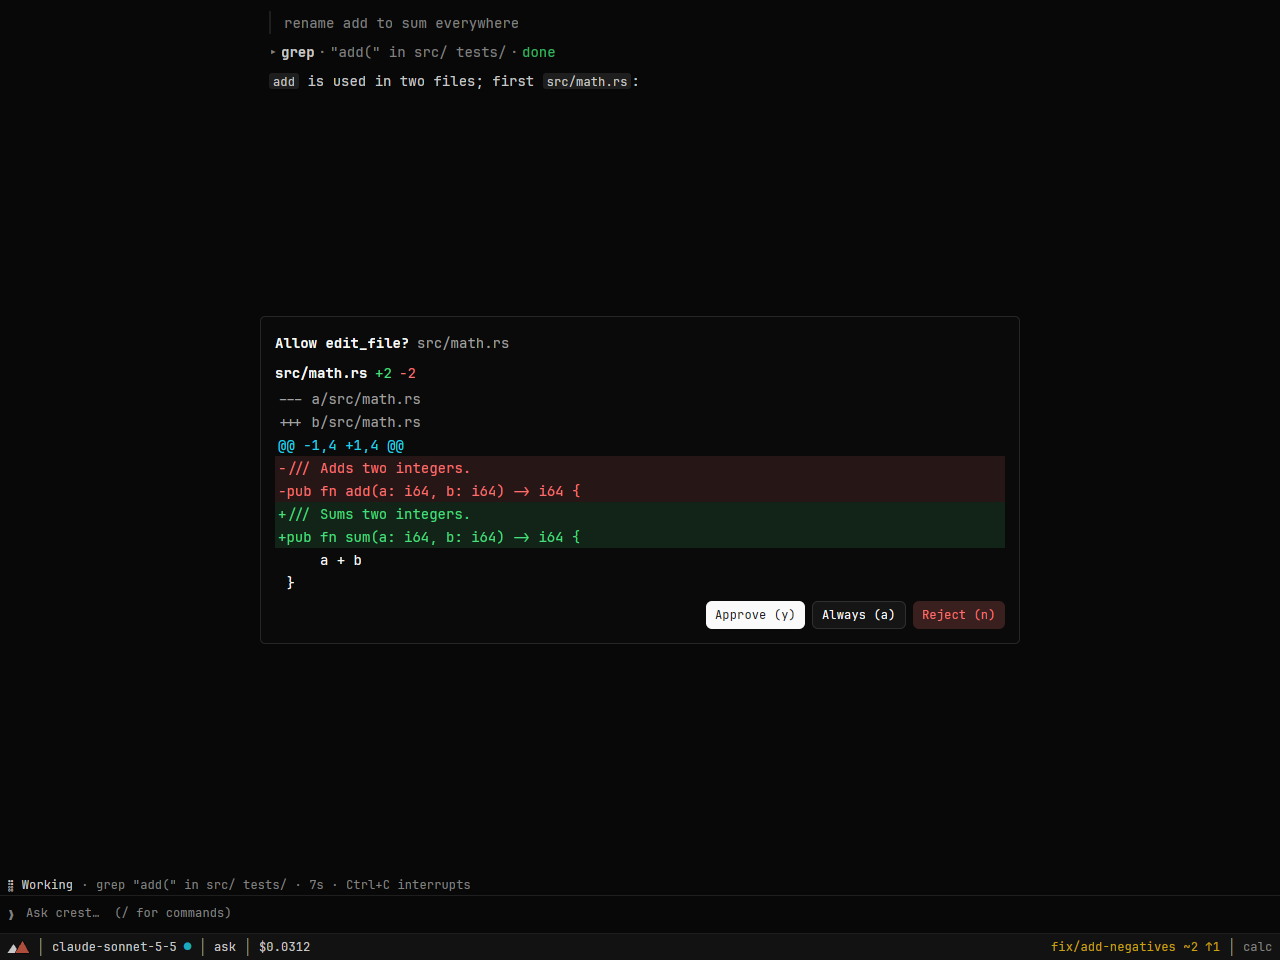
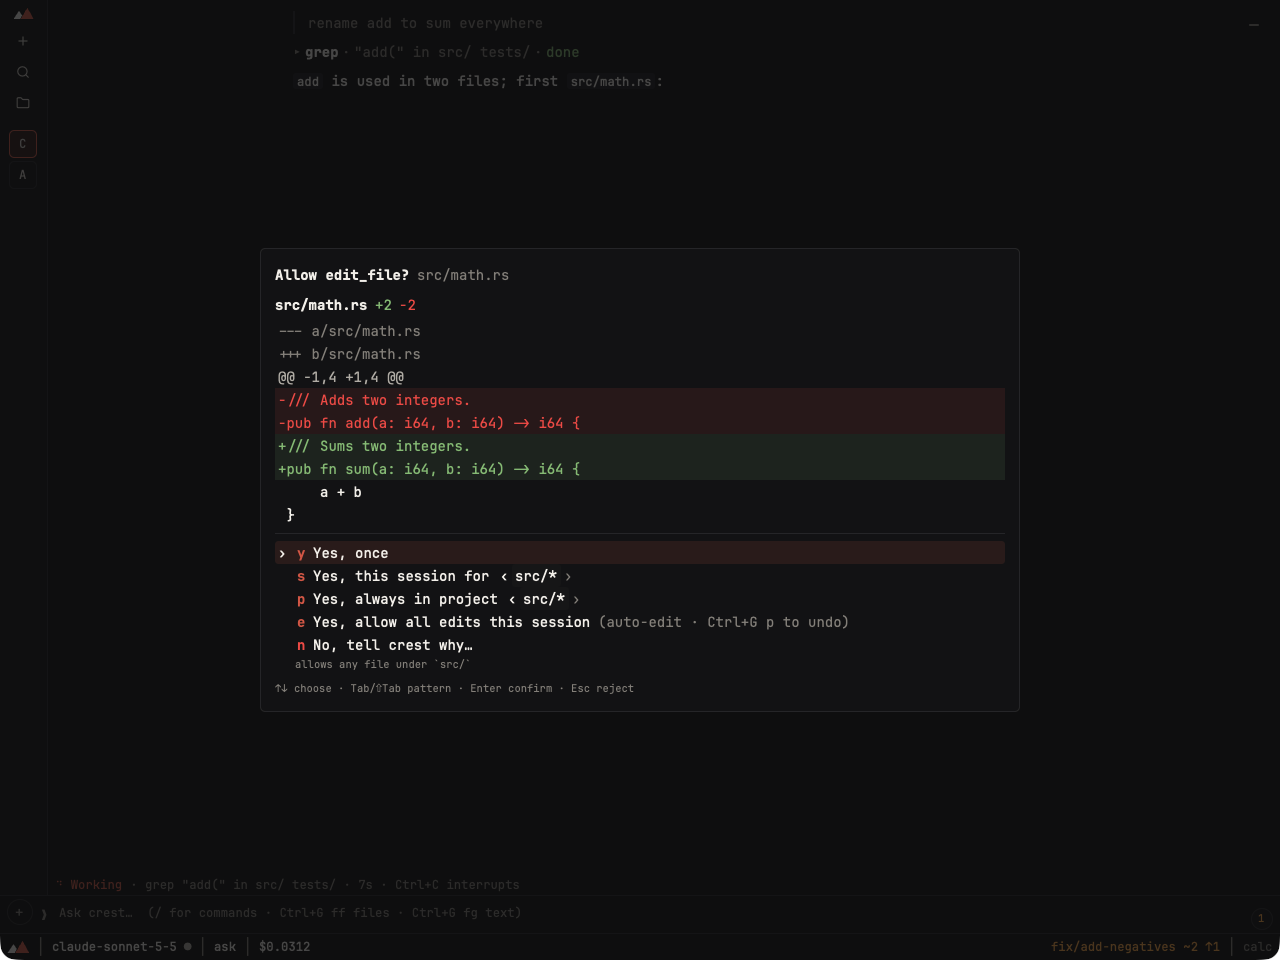
docs: regenerate the screenshots from the showcase scenes
All sixteen, after the sidebar and kit redesign; `technical.png` is
captured for the first time, and `sidebar`, `tour`, `menu`, `info`,
`picker` and `permissions` are new.

diff --git a/docs/status.md b/docs/status.md
@@ -14,7 +14,7 @@ crest is a **work in progress**. Every phase of the original plan is implemented
 - Reading the API key or plugin secrets from the system keyring has not been tested (the tests use the environment fallback).
 - The rtk integration (`app.opt.rtk`) has only been tested with a fake `rtk` script that follows the `rtk rewrite` exit-code contract, not with the real binary.
 - The discovery engine (`app.opt.research = { engine = "discovery" }`) has run end to end only with scripted models in tests and, before it was built into the app, with Claude Haiku through a command-line harness on two real cases (`.crest/specs/0001-discovery-engine/spikes/SP1.md`). Its deep gates in the app (the explorer agent, spikes in a git worktree) have not been exercised against a real model yet, and the web adapter still refuses PDFs, so papers are read from their landing pages.
-- The chat blocks for technical work (statistics, calc and solver cards, recompute, number slots, LaTeX math, `ask_user` forms, plots with sliders, test reports, findings, WaveDrom, datasets, molecules, plates, the devops blocks from traces to benchmarks, the engineering blocks from waveforms to IFC schedules, the science blocks from sequences to training curves, ANSI colours, SVG images, copy-as) are covered by unit and `#[gpui::test]` tests only: the window has not been opened to look at them, so layout, colours and focus behaviour are unchecked. The README's `technical.png` screenshot (the `technical` scene of the `showcase` example) has not been captured yet. The statistics engine is checked against NIST StRD and R reference values; the Python and R reproduce lines have not been run against those tools.
+- The chat blocks for technical work (statistics, calc and solver cards, recompute, number slots, LaTeX math, `ask_user` forms, plots with sliders, test reports, findings, WaveDrom, datasets, molecules, plates, the devops blocks from traces to benchmarks, the engineering blocks from waveforms to IFC schedules, the science blocks from sequences to training curves, ANSI colours, SVG images, copy-as) are covered by unit and `#[gpui::test]` tests only: the window has not been opened to look at them, so layout, colours and focus behaviour are unchecked. The statistics engine is checked against NIST StRD and R reference values; the Python and R reproduce lines have not been run against those tools.
 - The performance, build and architecture pass of October 2026 (tool calls in parallel, concurrent startup, render caches, background work in the UI, leaner dev builds) was not measured, and its UI changes have only been checked by tests: see the [audit report](research/performance-architecture-audit.md) for what changed, what to look at in the window and how to measure.
 - The privacy layer works by patterns: it catches well-known key formats and validated personal data, not every secret (a password with only letters, a custom token format). Add `app.opt.privacy.patterns` for your own formats.
 
